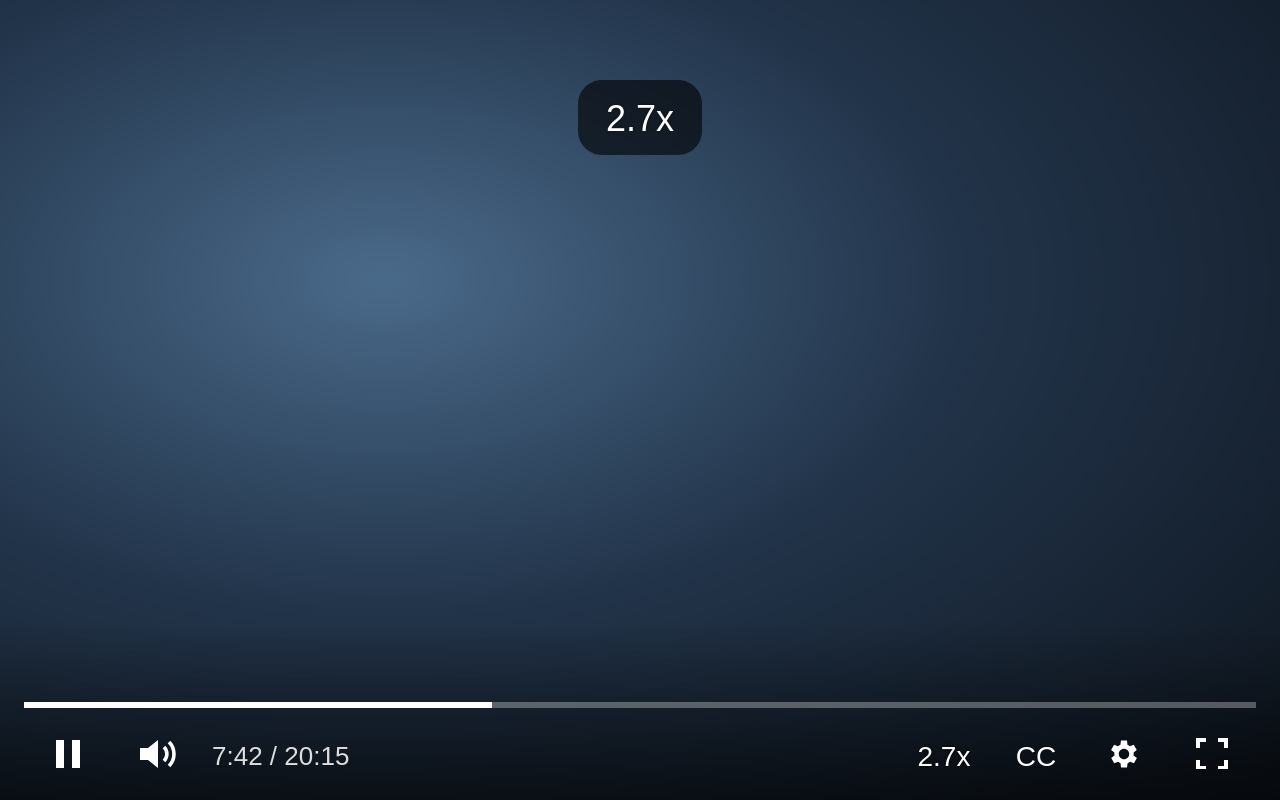
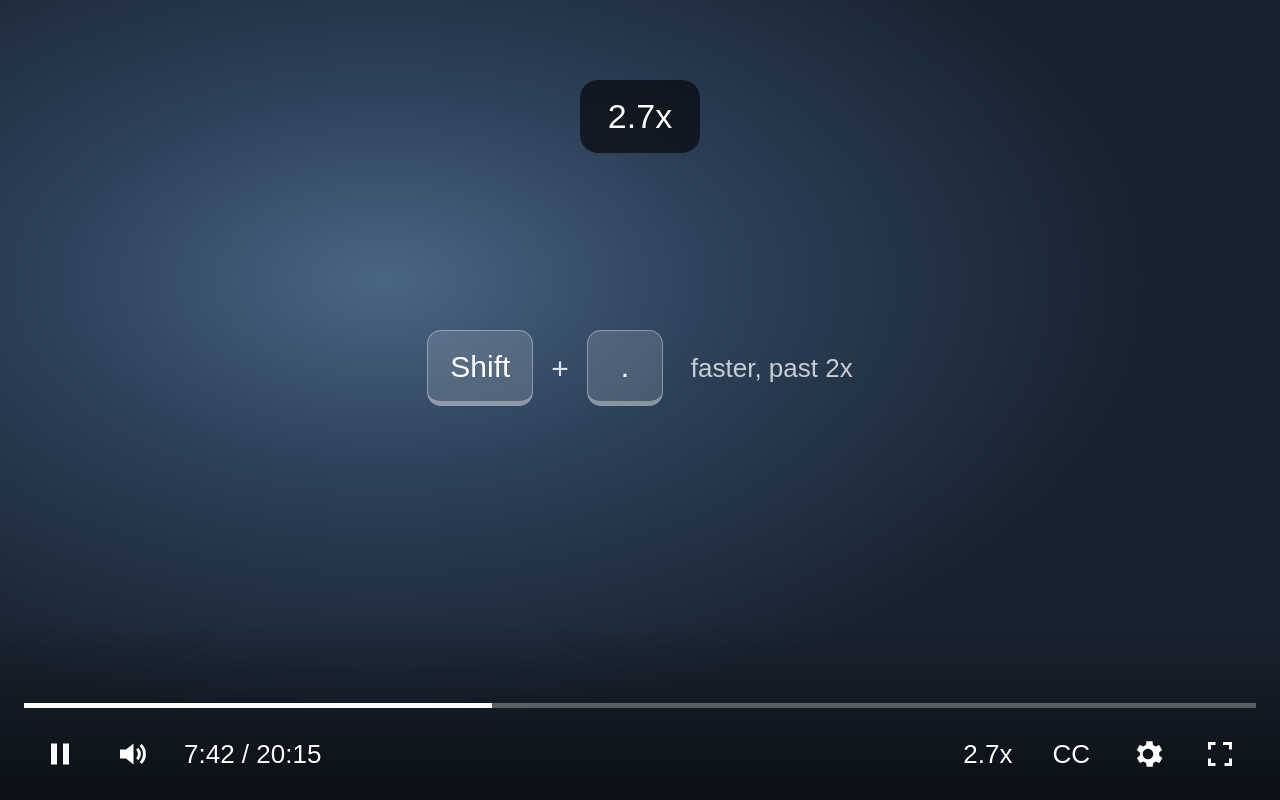
1.5.0: changelog, DESIGN.md, new screenshots and captions

diff --git a/DESIGN.md b/DESIGN.md
@@ -6,8 +6,8 @@ colors:
   amber-ink: "#1d1404"
   amber-text-light: "#8a5300"
   amber-text-dark: "#ffc24f"
-  amber-focus-light: "#e89a00"
-  amber-fine-light: "#d48700"
+  amber-focus-light: "#a86400"
+  amber-fine-light: "#b06f00"
   cool-grey-bg: "#e7e8eb"
   white-surface: "#ffffff"
   cool-grey-line: "#dcdee2"
@@ -16,7 +16,7 @@ colors:
   control-light: "#eff0f2"
   control-light-hover: "#e4e6e9"
   control-light-active: "#d9dbdf"
-  tick-light: "#a5a9b1"
+  tick-light: "#858a93"
   tick-major-light: "#33363c"
   graphite-bg: "#111214"
   graphite-surface: "#1b1c20"
@@ -26,7 +26,7 @@ colors:
   control-dark: "#26282d"
   control-dark-hover: "#30333a"
   control-dark-active: "#3a3d45"
-  tick-dark: "#5b6069"
+  tick-dark: "#6b7079"
   tick-major-dark: "#d3d6db"
   icon-graphite: "#16181d"
   player-panel: "rgba(0, 0, 0, .6)"
@@ -39,7 +39,6 @@ colors:
   player-white: "#ffffff"
   player-secondary: "rgba(255, 255, 255, .7)"
   player-on-ink: "#0f0f0f"
-  player-tooltip: "rgba(28, 28, 28, .95)"
 typography:
   ext-body:
     fontFamily: "system-ui, -apple-system, Segoe UI, Roboto, sans-serif"
@@ -203,9 +202,11 @@ components:
 
 **Creative North Star: "The Instrument Cluster, with a native passenger"**
 
-The product has two visual languages, and which one applies depends on where the surface lives. Extension pages (the settings page, shown in the toolbar popup and in about:addons, and the welcome page opened on install) belong to the icon's world. That world is an instrument cluster: graphite at night, cool grey and white by day, and one amber that lights only what is live. The settings page treats speed as a single instrument reading. A drawn speed scale shows every reachable speed as a tick, the fine-step zone is washed in amber, and an amber switch-point needle can be dragged. Round steppers and fixed-width numeral cells sit under the scale.
+The product has two visual languages, and which one applies depends on where the surface lives. Extension pages (the settings page, shown in the toolbar popup and in about:addons, and the welcome page opened on install) belong to the icon's world. That world is an instrument cluster: graphite at night, cool grey and white by day, and one amber that lights only what is live. The settings page treats speed as a single instrument reading. A drawn speed scale shows every reachable speed as a tick, the fine-step zone is washed in amber, and an amber ▲ marker for where steps change can be dragged. Round steppers and fixed-width numeral cells sit under the scale.
 
-Inside the YouTube player (the speed button, the speed panel and its settings page, the hotkey bezel and the first-run hint), the extension's brand is absent. Those surfaces copy YouTube's own settings menu and playback-speed submenu as measured: a 60% black panel, 12px corners, 330px width, 40px header, 48px rows, and 32px round controls and chips, all set in YouTube Noto. A user should take them for a player setting, not an overlay.
+Inside the YouTube player (the speed button, the speed panel and the speed bubble), the extension's brand is absent. Those surfaces copy YouTube's own settings menu and playback-speed submenu as measured: a 60% black panel, 12px corners, 330px width, 40px header, 48px rows, and 32px round controls and chips, all set in YouTube Noto. A user should take them for a player setting, not an overlay.
+
+The one surface that crosses over is the full settings window opened from the player panel. It is the extension's settings page in an iframe, so it keeps the extension's look (see The Window Rule).
 
 Density is compact on both sides: 48px rows and small controls, with no decorative surfaces. Copy is plain.
 
@@ -225,7 +226,7 @@ Extension pages use neutral graphite and cool grey with one warm amber signal. T
 - **Gauge Amber** (amber): the switch-point needle and its head (dark theme), the fine-step tick colour (dark theme), the fine-zone wash at 16% / 10% alpha, the primary button fill, the text-selection fill, and the flash ring on a value that was corrected. It is the same in both themes.
 - **Amber Ink** (amber-ink): text on an amber fill.
 - **Burnt Amber Text** (amber-text-light) / **Pale Amber Text** (amber-text-dark): the needle's value label, wherever amber has to be read as text. On the light theme, raw amber is too low-contrast for text on white.
-- **Deep Amber** (amber-focus-light, amber-fine-light): the light-theme versions of the focus ring, needle and fine ticks, darkened so they stay visible on white.
+- **Deep Amber** (amber-focus-light, amber-fine-light): light-theme focus ring (#a86400, 4.7:1 on white) and fine ticks (#b06f00), darkened so they stay visible on white. The needle stays #e89a00.
 
 ### Neutral
 - **Cool Grey / White** (cool-grey-bg, white-surface, cool-grey-line): light-theme page, card and row-divider colours.
@@ -241,12 +242,13 @@ Extension pages use neutral graphite and cool grey with one warm amber signal. T
 - **Translucent White controls** (player-control, -hover, -active): round buttons and chips.
 - **Player whites** (player-text, player-white, player-secondary): body text, controls and labels, and the summary, text buttons and settings icon at reduced opacity.
 - **Selected state**: a solid white chip (player-white) with near-black text (player-on-ink), matching YouTube's selected chips.
-- **Tooltip Charcoal** (player-tooltip): the first-run hint bubble only.
 
 ### Named Rules
 **The Live Value Rule.** Amber marks only things that are live or actionable: the fine-step zone, the switch-point needle and its label, the primary action, focus, and the "corrected" flash. Static labels, headings, chrome and decoration never use it.
 
 **The Native Passenger Rule.** No extension brand colour appears inside the YouTube player. In-player UI uses only translucent black, translucent white, solid white and #0f0f0f.
+
+**The Window Rule.** Full settings are a separate window, not part of the player, so they keep the extension's look even over the video and in fullscreen. The window opens where the toolbar popup does: 8px from the top-right corner of the viewport, 400px wide, no dimming behind it. A click outside or Esc closes it, and keyboard focus stays inside while it is open.
 
 ## Typography
 
@@ -259,6 +261,7 @@ Extension pages use neutral graphite and cool grey with one warm amber signal. T
 - **Welcome display** (750, 28px, 1.15, -0.02em, balanced wrap): the welcome page headline only.
 - **Welcome readout** (750, 40px, tabular): the speed number in the welcome demo.
 - **Welcome lead** (400, 16px, 1.5, max 52ch): the intro paragraph on the welcome page.
+- **Welcome section** (700, 17px, -0.01em): card titles on the welcome page ("Controls", "How it works", "Where it works").
 - **Title** (650, 15px): the product name in the page header.
 - **Section** (600, 14px): card headings, and the numbers in value cells and chips.
 - **Body** (400, 14px, 1.4, tabular numerals on the whole page): row labels, how-to text (max 62ch).
@@ -281,19 +284,19 @@ Extension pages use neutral graphite and cool grey with one warm amber signal. T
 
 ## Layout
 
-Extension pages use a single centred column: max 520px for settings and 600px for welcome, with a minimum body width of 360px so the toolbar popup works. Cards stack 12px apart (16px on welcome). Inside a card, settings are rows at least 48px tall, divided by 1px rules: label on the left, stepper on the right. The first view on the settings page is the header, then the speed-scale card with its count, then Steps.
+Extension pages use a single centred column: max 520px for settings and 600px for welcome, with a minimum body width of 360px so the toolbar popup works. Cards stack 12px apart (16px on welcome). Inside a card, settings are rows at least 48px tall, divided by 1px rules: label on the left, stepper on the right. The first view on the settings page is the header, then the speed-scale card with its one-line legend, then Steps.
 
-The in-player panel is absolutely positioned at 330px wide. It has a sticky 40px header, a main page with 24/16/16px padding and a 16px vertical gap, and a settings page of 48px rows inset 16px left and 12px right. Presets sit in an equal-column grid (`--cols`, default 6) with an 8px gap. Every in-player dimension is written as `calc(Npx * var(--s))`.
+The in-player panel is absolutely positioned at 330px wide. It has a sticky 40px header and a main page with 24/16/16px padding and a 16px vertical gap. It never gets wider than the player minus 24px. Presets sit in an equal-column grid (`--cols`, default 6) with an 8px gap; below 320px they wrap into 52px columns. Every in-player dimension is written as `calc(Npx * var(--s))`.
 
 ## Elevation & Depth
 
-Extension pages are nearly flat. Cards lift slightly off the page with a soft ambient shadow, and nothing else carries a shadow. In dark mode, depth comes mostly from the step between page (#111214) and card (#1b1c20). Inside the player, depth comes from translucency over video. The only shadows there are YouTube-matching text shadows, the slider thumb, and the first-run hint bubble.
+Extension pages are nearly flat. Cards lift slightly off the page with a soft ambient shadow, and nothing else carries a shadow. In dark mode, depth comes mostly from the step between page (#111214) and card (#1b1c20). Inside the player, depth comes from translucency over video. The only shadows there are YouTube-matching text shadows and the slider thumb. The settings window, which belongs to the extension's world, floats on its own shadow.
 
 ### Shadow Vocabulary
 - **Card, light** (`0 1px 2px rgba(20,22,26,.06), 0 2px 8px rgba(20,22,26,.05)`).
 - **Card, dark** (`0 1px 0 rgba(255,255,255,.03) inset, 0 2px 10px rgba(0,0,0,.35)`).
 - **Player text** (`text-shadow: 0 0 2px rgba(0,0,0,.5)` on panel and bezel; `0 0 2px #000` on the speed button).
-- **Player hint** (`0 4px 16px rgba(0,0,0,.35)`).
+- **Settings window** (`0 12px 40px rgba(0,0,0,.45)` plus a 1px 8% white ring, so it separates from dark video).
 
 ## Shapes
 
@@ -305,31 +308,40 @@ The form language is round. Both worlds share it, so they feel related without s
 - **Primary** (extension): amber pill, amber-ink text, weight 650. Hover brightens to 1.06. Used for "Add" in settings and "Open YouTube" on welcome. One per view.
 - **Secondary** (welcome): control-grey pill, 40px tall, weight 600; hover moves to the next control grey.
 - **Text link**: muted text with a 45% underline offset 3px. Hover switches to full text colour and a full underline. Used in the footer.
-- **Focus**: `outline: 2px solid` focus amber, offset 2px.
+- **Undo**: a 600-weight amber-text link next to the status in the header, shown for 5 seconds after Reset or removing a preset.
+- **Focus**: `outline: 2px solid` focus amber, offset 2px, on buttons and links.
 
 ### Steppers and value cells (extension signature)
 - 34px round minus/plus buttons (40px in the welcome demo), 4px apart, around a pill value cell with a transparent fill. Hover and active step through the control greys. Disabled buttons drop to 45% opacity.
 - Focus inside the cell shows a 2px focus-amber ring. A value clamped by the app flashes a 2px amber ring for 1.4s, so corrections are visible where they happen.
 
 ### Speed scale (extension signature)
-- An SVG drawn by options.js: one tick per reachable speed (major ticks darker and thicker), an amber fine-step zone wash (rx 3), preset speeds shown as 3px muted rings, and a 2px amber needle with a triangular head and a 650-weight value label. The needle can be dragged and moved with the arrow keys. Its focus shows an amber wash on the hit area.
+- An SVG drawn by options.js: one tick per reachable speed (major ticks darker and thicker), an amber fine-step zone wash (rx 3), preset speeds shown as 3px muted rings, and a 2px amber needle with a triangular head and a 650-weight value label. Only the marker can be dragged; a click elsewhere on the scale does nothing. Arrow keys move it. Its focus shows an amber wash and a 2px focus-amber ring on the hit area.
+- A one-line legend sits under the scale: an amber swatch for the second step size ("0.1× steps"), a ring for "preset", and the ▲ for "drag to move". A hidden sentence describes the scale for screen readers.
+- Rows: "Each press below 2×", "Steps change at", "Each press above 2×", then Slowest and Fastest. One name for the idea everywhere: where steps change. When the marker sits at an end, the row for the empty side dims to 50% with "not used".
 
 ### Chips (extension)
 - 32px control-grey pills with a 600-weight number and a muted 15px close icon that darkens to text colour on hover. Wrapping row, 8px gap.
+- A preset outside the current range stays saved and shows as an outlined muted chip (transparent fill, 1px line ring, weight 500). The player hides it until the range includes it again.
+- Preset errors appear in 13px text right under the Add field, marked with an amber "!", and clear as you type.
 
 ### Player speed button
-- Sits in YouTube's right controls with no fill, white 500/14px YouTube Noto, at least 48px wide, styled like the time display. On Shorts it is a 48px pill with a 10% white hover.
+- Sits first in YouTube's right controls with no fill, white 500 YouTube Noto, at least 48px wide, styled like the time display. Its font size is copied from the time display at mount and on fullscreen changes, so it grows with big mode. On Shorts it is a 48px pill with a 10% white hover.
+- Tooltip: "Playback speed (Shift+. / Shift+,), scroll to change". Screen readers hear "Playback speed 2.3x" and whether the panel is open.
 
 ### Player panel
-- 60% black, 12px corners, 330px. Header 40px with a 35% black wash, a 1px 20% white rule, and a 12px/500 title, with back and settings as transparent round buttons. The page enters with a 160ms slide-and-fade (`cubic-bezier(.2,.8,.2,1)`); reduced motion turns it off.
-- **Round buttons:** 32px (28px small variant in settings rows), 10% white, 20% on hover, 28% when pressed. Disabled at 35%.
-- **Chips:** 32px, 16px corners, 10% white. Selected is solid white with #0f0f0f text. The "Add" chip has a 1px inset 35% white outline on a transparent fill.
+- 60% black, 12px corners, 330px. Header 40px with a 35% black wash, a 1px 20% white rule, and a 12px/500 title, with the tune icon (all settings) as a transparent round button.
+- **Round buttons:** 32px, 10% white, 20% on hover, 28% when pressed. Disabled at 35%: − at the slowest speed, + at the fastest.
+- **Chips:** 32px, 16px corners, 10% white. Selected is solid white with #0f0f0f text.
+- **Keyboard:** opening the panel from the keyboard moves focus to the slider; Esc closes it and returns focus to the button.
 - **Slider:** 4px track at 30% white, white progress, 14px white thumb.
 - **Focus:** 2px solid white outline.
 
-### Player hint and bezel
-- **Hint:** 264px charcoal bubble with 12px corners, an arrow pointing at the speed button, and a white "Got it" pill. It fades with YouTube's autohide.
-- **Bezel:** 60% black pill-ish box (12px corners) with 500/18px white text, at 10% from the top and centred.
+### Speed bubble
+- 60% black box (12px corners) with 500/18px white text, at 10% from the top and centred, where YouTube shows its own. It shows for 700ms after a hotkey, and when YouTube's own speed menu tries to change the speed. While you hold the video for double speed it stays up with the doubled speed, and YouTube's own "2x" overlay is hidden.
+- Each change is also written to a hidden polite live region for screen readers.
+
+There is no first-run hint inside the player. The welcome page explains the controls.
 
 ## Do's and Don'ts
 

diff --git a/CHANGELOG.md b/CHANGELOG.md
@@ -1,5 +1,44 @@
 # Changelog
 
+## 1.5.0 (2026-11-12)
+
+**Added**
+
+- Hold the mouse down on the video to play at twice your speed, up to your fastest setting. At 1.5x you get 3x. Let go and you're back. This replaces YouTube's own hold, which gives a flat 2x, and hides YouTube's "2x" overlay while you hold.
+- When YouTube's own speed menu tries to change the speed, the speed bubble shows the speed you're really at.
+- Undo for "Reset to defaults" and for removing a preset, for 5 seconds.
+- A legend under the speed scale, a description of the scale for screen readers, and a "Rate this add-on" link in the settings footer.
+- The welcome page now explains hold for double, how the extension keeps your speed, and where it works.
+
+**Changed**
+
+- Full settings from the player panel open in the top-right corner, like the toolbar popup, without dimming the video. A click outside or Esc closes them.
+- Settings rows are renamed so one idea has one name: "Each press below 2×", "Steps change at", "Each press above 2×". When the switch point sits at an end, the unused step row dims.
+- Only the marker on the speed scale can be dragged. A stray click on the scale no longer changes the setting.
+- Speed keys only act when a video is on the page. On the home page and in search they stay YouTube's.
+- Presets outside your range are kept and hidden in the player, instead of deleted. Widen the range and they come back.
+- Preset errors show under the Add field instead of flashing in the header.
+- On a fresh install, R goes from 1x to your first preset above 1x instead of doing nothing.
+- The speed button follows the time display's size in large fullscreen. Its tooltip shows the keys.
+- The player panel never gets wider than the player, so it isn't cut off on small Shorts.
+- At the live edge of a live stream the extension leaves the speed to YouTube. If another extension keeps resetting the speed, this one backs off for 3 seconds instead of looping.
+- The first-run hint in the player is gone. The welcome page covers the same ground.
+
+**Accessibility**
+
+- Visible focus in the light theme (darker amber) and on links and the scale marker. Easier-to-see ticks on the scale.
+- The player panel takes focus when opened from the keyboard and gives it back on Esc. Screen readers hear the current speed, whether the panel is open, and speed changes from the keys and the scroll wheel.
+- Keyboard focus stays inside the full settings window while it's open.
+
+**Fixed**
+
+- The whole-number marks on the settings scale weren't drawn darker.
+- A − or + button could move a typed value the wrong way when it was beyond the usual steps.
+- Clearing a settings field reset it to the default instead of the value it had.
+- "Adjusted to fit" now marks every value that had to move, not only the one you typed in.
+- Corrupted settings in storage no longer stop the extension.
+- Key presses faked by page scripts are ignored, and the settings window only sends messages to youtube.com.
+
 ## 1.4.0 (2026-11-12)
 
 **Changed**

diff --git a/listing/screenshots.md b/listing/screenshots.md
@@ -1,0 +1,27 @@
+# AMO screenshots for 1.5.0
+
+Not packaged. Upload by hand in the Developer Hub: Edit Product Page, Images.
+
+## Delete
+
+- The two pre-1.4.0 screenshots (preview ids 448546 and 448547): the old panel and old settings.
+- The 1.4.0 keys, settings and welcome screenshots. They are three of 448680, 448681, 448685, 448686; tell them apart by the picture. Keep the panel one.
+
+## Upload, in this order
+
+All are 1280x800, drawn on a mock player (no real video frames).
+
+1. `screenshot-panel.png` (keep the existing upload)
+   Caption: Click the speed button for a slider and presets. Scroll over it to step the speed.
+
+2. `screenshot-keys.png`
+   Caption: YouTube's own speed keys, Shift + . and Shift + , now go past 2x. Above 2x they move in 0.1x steps.
+
+3. `screenshot-shorts.png`
+   Caption: On Shorts the speed button sits with the other controls at the top.
+
+4. `screenshot-settings.png`
+   Caption: Choose both step sizes, where steps change, the range and up to 8 presets. Opens over the video, like the toolbar popup.
+
+5. `screenshot-welcome.png` (optional)
+   Caption: A short welcome page on install, with a live demo of the keys and how the extension works.

diff --git a/README.md b/README.md
@@ -38,6 +38,8 @@ The tune icon in the player panel opens the full settings over the video, like t
 
 ![Settings](listing/screenshot-settings.png)
 
+![Speed panel on a Short](listing/screenshot-shorts.png)
+
 ## Privacy
 
 The extension makes no network requests and collects nothing. It stores your current speed and your settings in `browser.storage.local`, inside your Firefox profile. Its only permission is `storage`, and it only runs on `www.youtube.com`.
